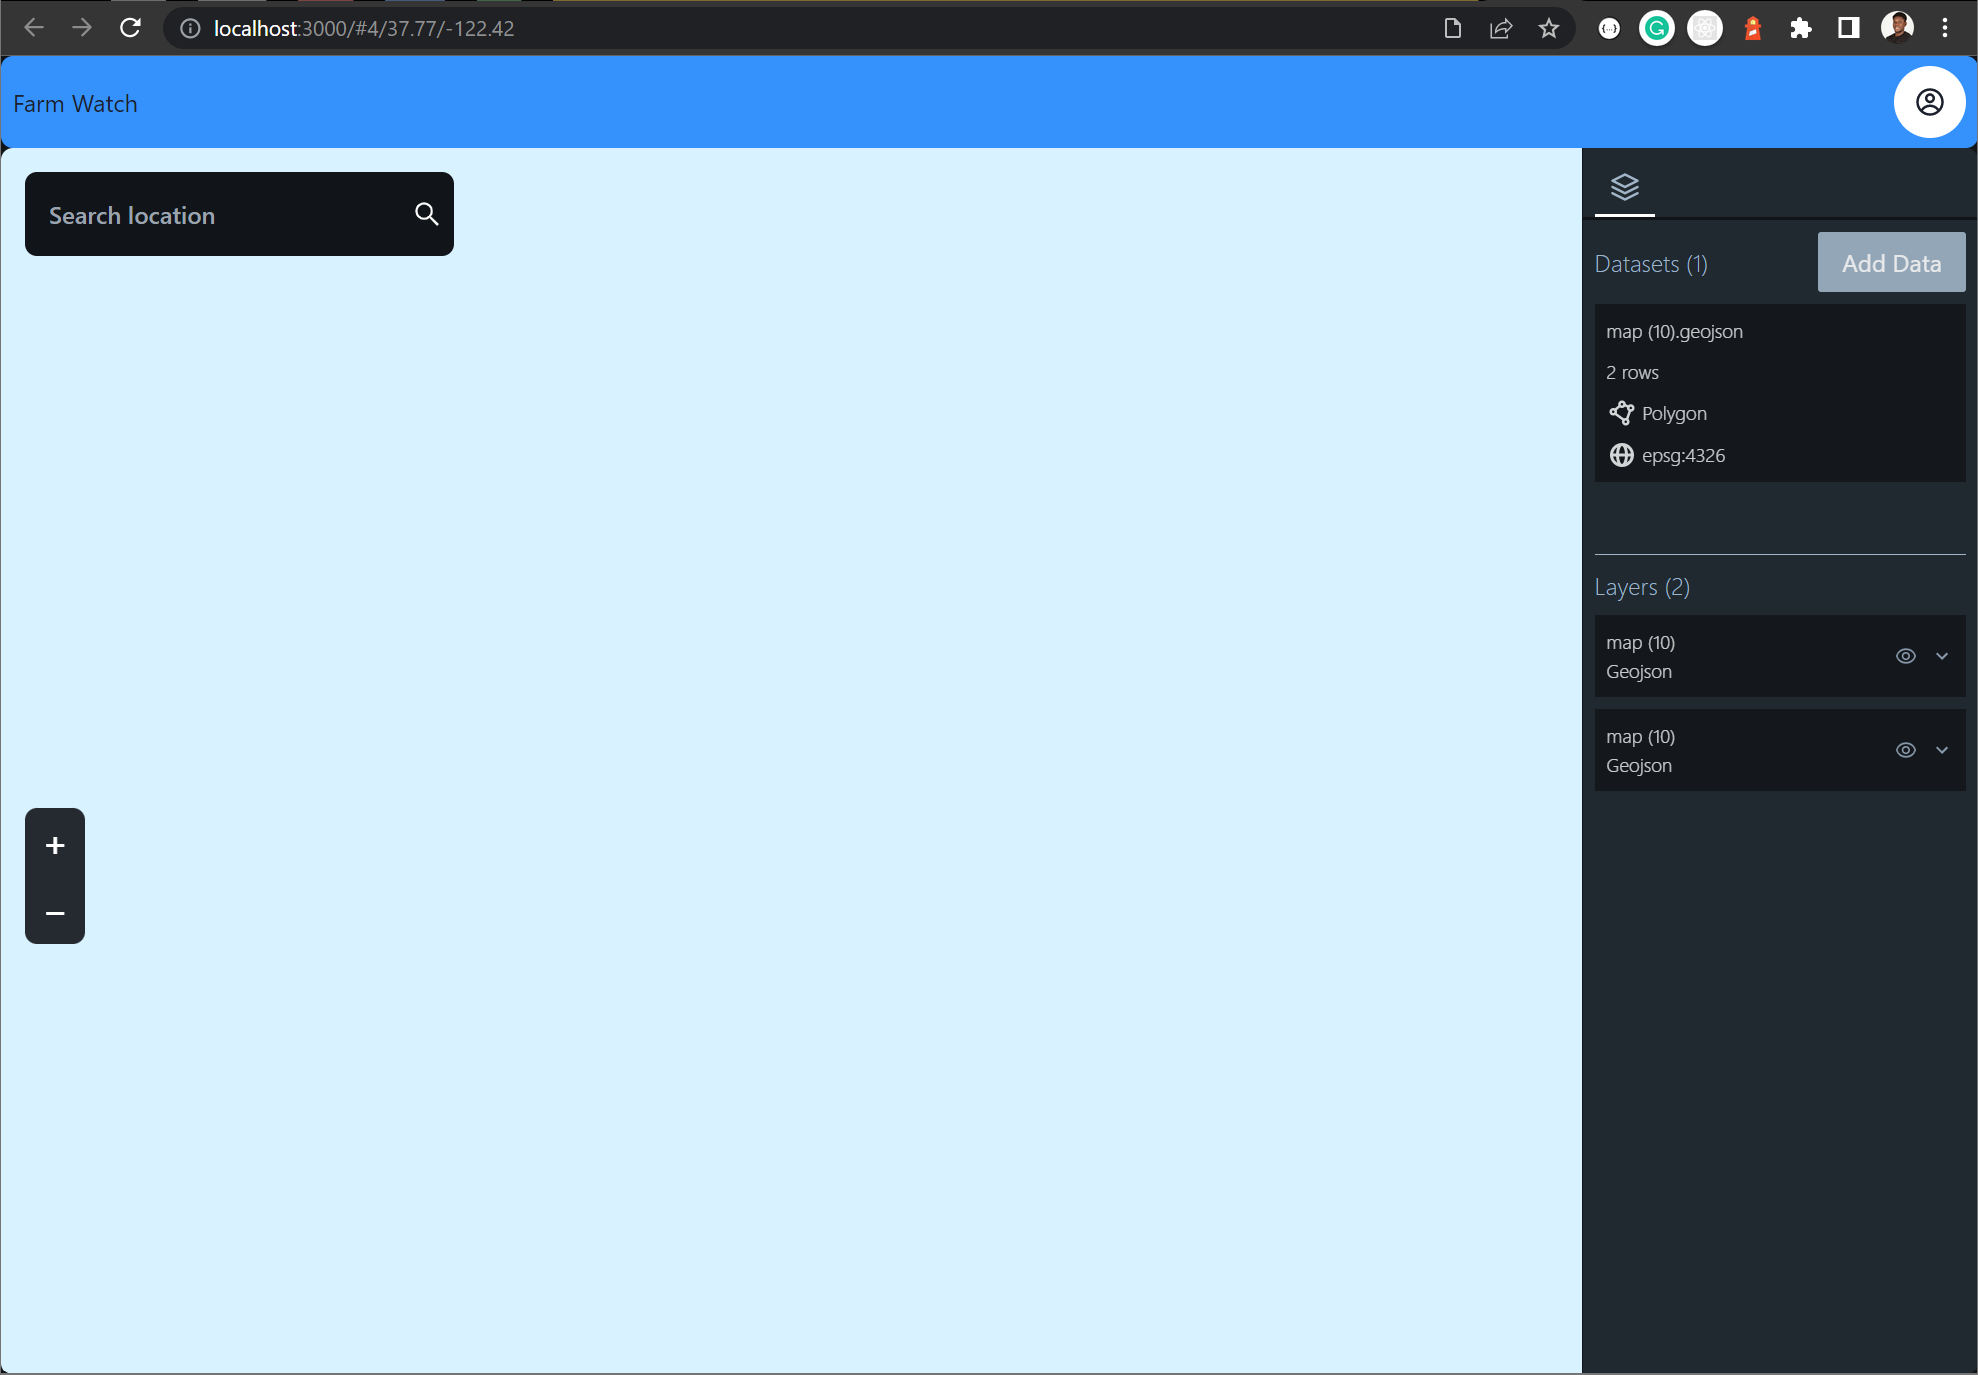
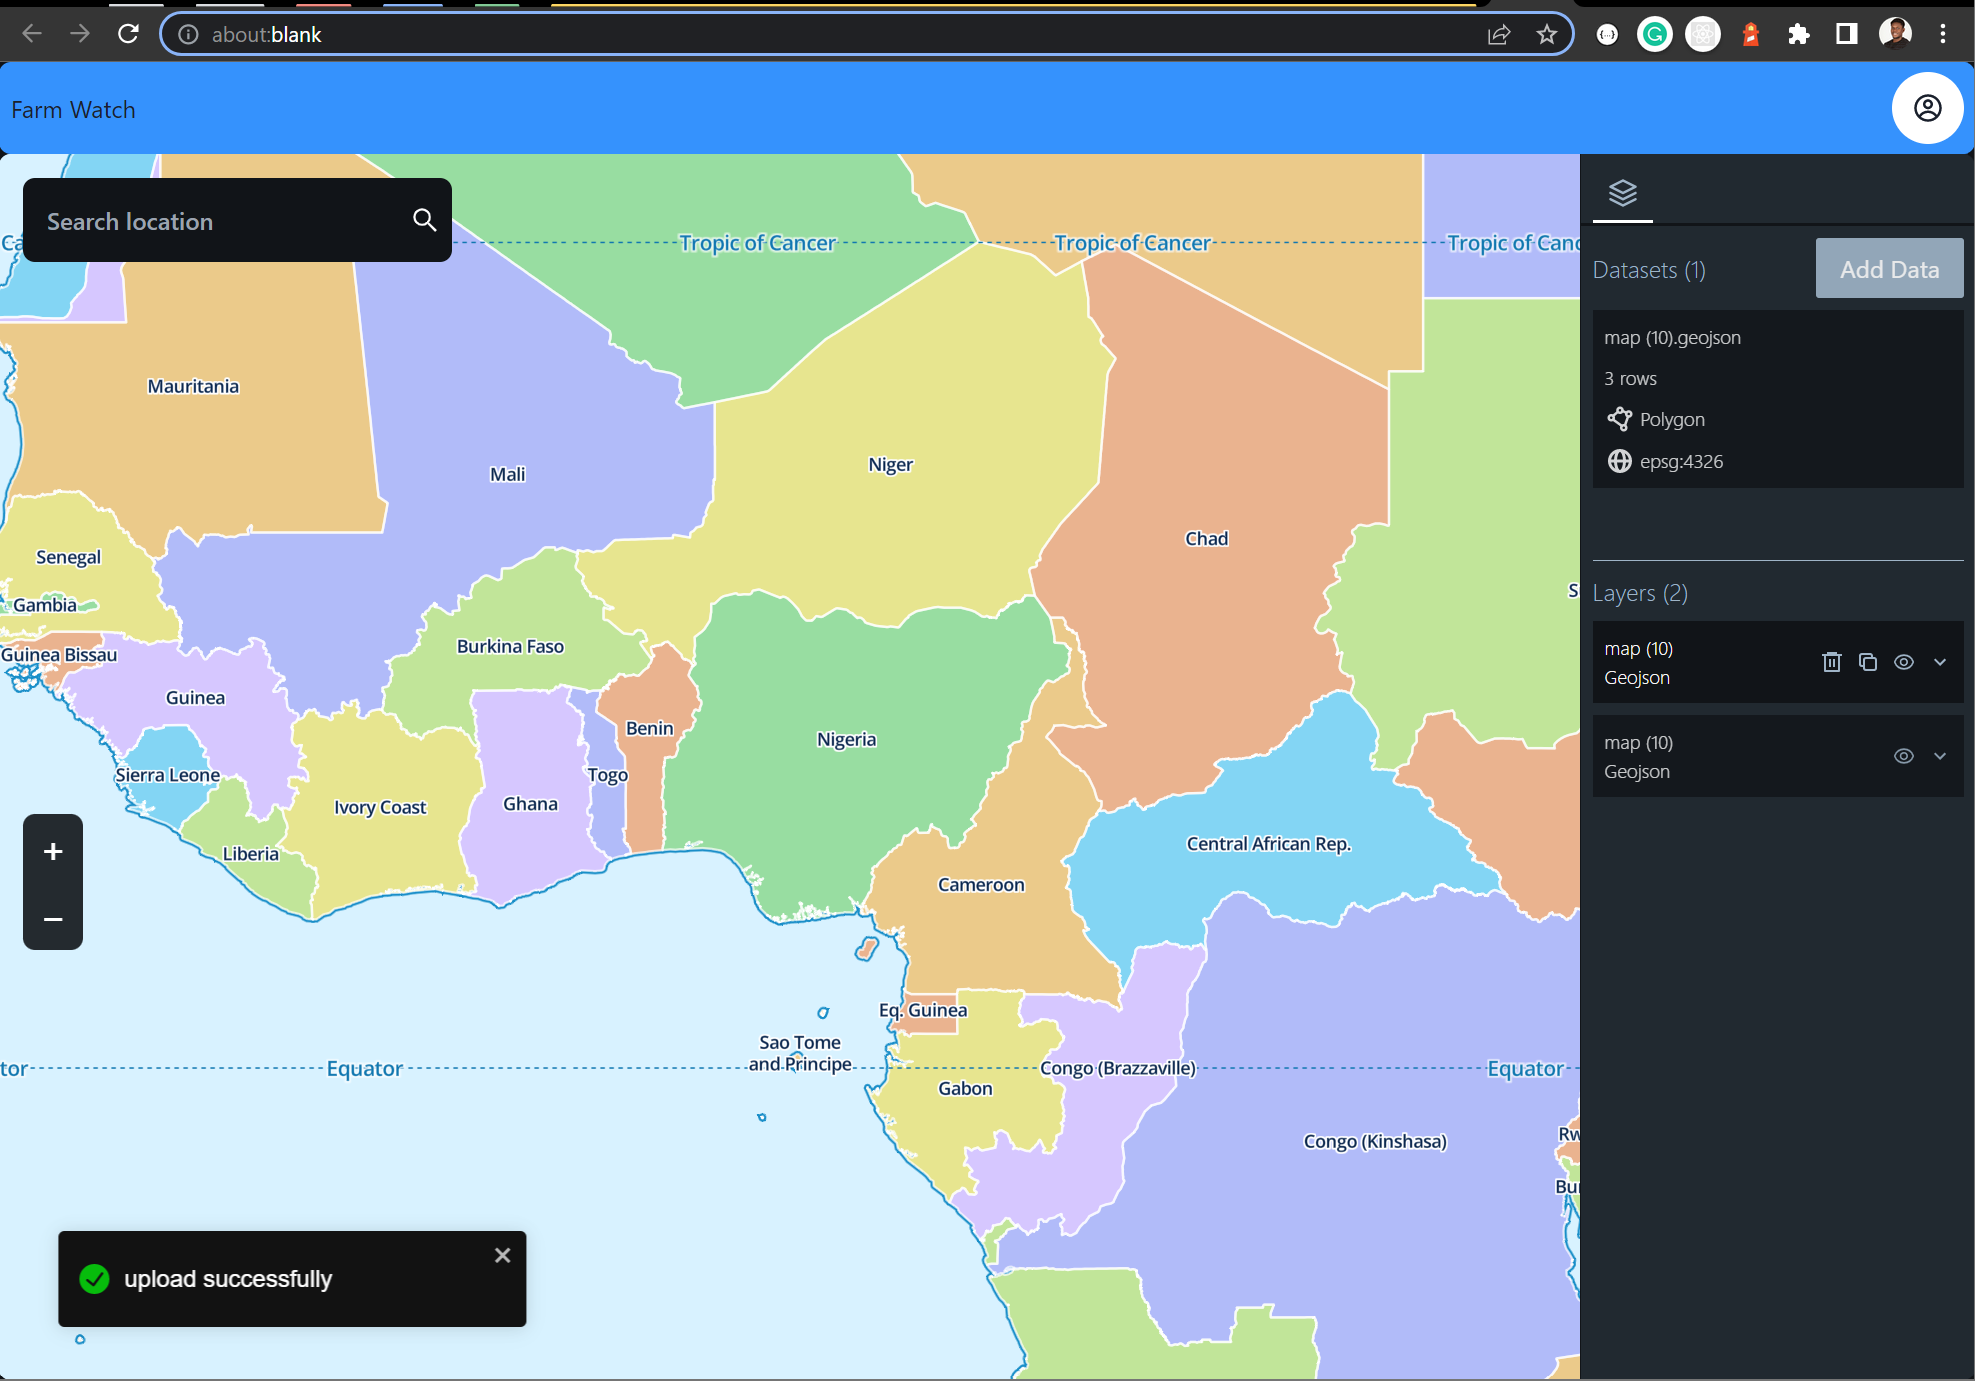
fixed map view bug

diff --git a/frontend/src/context/MapContext.jsx b/frontend/src/context/MapContext.jsx
@@ -1,15 +1,22 @@
 import { createContext, useContext, useEffect, useState } from 'react';
-import maplibregl from 'maplibre-gl';
-
+// Fixes map not loading in production:/https://github.com/maplibre/maplibre-gl-js/issues/1011
+// eslint-disable-next-line import/no-webpack-loader-syntax
+import maplibregl from '!maplibre-gl';
+import maplibreglWorker from 'maplibre-gl/dist/maplibre-gl-csp-worker';
+import { useDataManagerContext } from './DataManagerProvider';
+maplibregl.workerClass = maplibreglWorker;
 const MapContext = createContext();
 
 export const useMapContext = () => useContext(MapContext);
 const MapProvider = ({ children }) => {
     const [mapInstance, setMapInstance] = useState(null);
+    //access layers to interactively add or remove from the map
+    const { datasets, layers } = useDataManagerContext();
+
     useEffect(() => {
         const map = new maplibregl.Map({
             container: 'mapContainer',
-            center: [-122.420679, 37.772537],
+            center: [6.420679, 8.772537],
             zoom: 4,
             hash: true,
             minZoom: 0,

diff --git a/frontend/src/index.tsx b/frontend/src/index.tsx
@@ -5,7 +5,7 @@ import HomePage from './pages/Home';
 import 'react-toastify/dist/ReactToastify.css';
 import { createBrowserRouter, RouterProvider } from 'react-router-dom';
 import ErrorPage from './pages/404';
-
+import 'maplibre-gl/dist/maplibre-gl.css';
 const router = createBrowserRouter([
     {
         path: '/',
